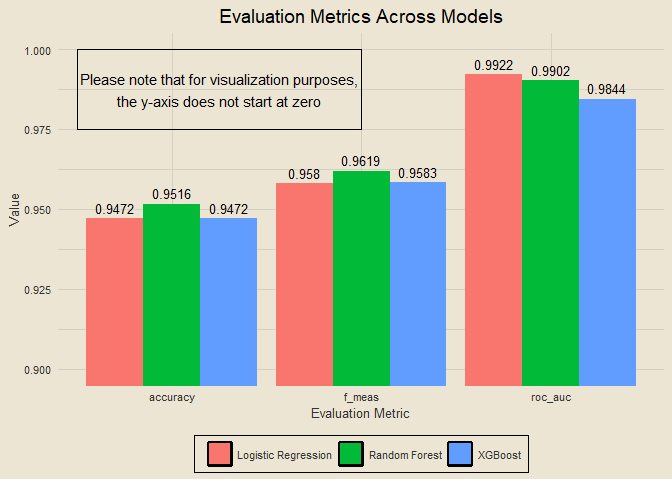
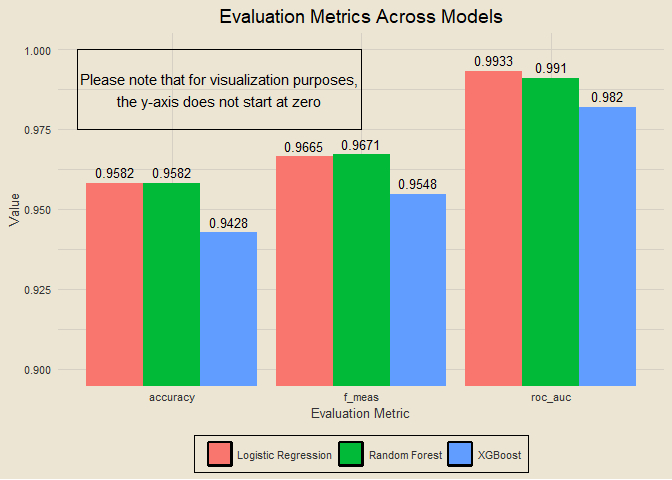
new commit

diff --git a/README.md b/README.md
@@ -935,24 +935,24 @@ pre_rec |>
 </details>
 
     ## # A tibble: 10 × 18
-    ##          id texture_mean area_…¹ smoot…² symme…³ fract…⁴ radiu…⁵ textu…⁶ smoot…⁷
-    ##       <dbl>        <dbl>   <dbl>   <dbl>   <dbl>   <dbl>   <dbl>   <dbl>   <dbl>
-    ##  1   859487       -0.651 -0.433   0.139   -0.808 -0.888  -0.607  -0.623    0.307
-    ##  2   911685       -1.09  -0.710   0.586   -0.119  0.417  -0.728  -0.0922  -0.694
-    ##  3   906616       -0.760 -0.701   0.884    0.271  0.0570 -0.575  -0.875   -0.385
-    ##  4 85922302        1.06  -0.443   1.13     0.341  0.439   0.0733 -0.0704   0.246
-    ##  5  8811523       -0.218 -0.633  -0.194    0.567  0.0485 -0.393   0.627    0.610
-    ##  6   923465        1.14  -0.833  -1.03     0.600  0.0683  0.413   1.27     0.407
-    ##  7   914333        0.214  0.0739 -0.0349  -1.18  -0.753  -0.623   0.760   -0.542
-    ##  8   924934        1.93  -0.948  -0.431   -0.797 -0.216  -0.668   1.85     1.67 
-    ##  9   915940       -1.31   0.0111  0.139   -0.265 -0.906   0.0408 -1.08    -0.695
-    ## 10   872608       -0.286 -1.00    0.0448  -0.520  2.60    0.0935  1.89     1.94 
+    ##           id texture_…¹ area_…² smoot…³ symme…⁴ fract…⁵ radius…⁶ textu…⁷ smoot…⁸
+    ##        <dbl>      <dbl>   <dbl>   <dbl>   <dbl>   <dbl>    <dbl>   <dbl>   <dbl>
+    ##  1   8712289     0.639   2.93    -0.851 -0.0387  -1.03   0.934    -0.654  -0.710
+    ##  2    907409    -1.00   -0.913    0.128  0.414    0.900 -0.280    -0.163   0.108
+    ##  3 871001502     0.328  -1.28    -0.164  1.50     2.81  -0.763     1.35    1.79 
+    ##  4    859465    -0.0580 -0.741   -1.06  -1.08    -0.868 -0.478    -0.497   0.746
+    ##  5    861853    -1.05   -0.293   -1.62  -1.55    -1.36   0.00190  -0.116  -0.853
+    ##  6    861799     0.807   0.208   -0.310 -0.345   -0.259 -0.333    -0.681   0.946
+    ##  7  84799002     1.92    0.0111   1.25   1.79     1.13  -0.127    -0.333  -0.478
+    ##  8    859711    -1.08   -1.17     0.105  0.330    3.82   0.436    -0.661   3.39 
+    ##  9    879523    -0.607   0.175   -0.540 -0.794   -0.416 -0.483    -1.55   -0.523
+    ## 10    855563     0.479  -0.806    1.87   0.304    0.836 -0.608     0.383   0.341
     ## # … with 9 more variables: compactness_se <dbl>, concave_points_se <dbl>,
     ## #   symmetry_se <dbl>, fractal_dimension_se <dbl>, smoothness_worst <dbl>,
     ## #   compactness_worst <dbl>, symmetry_worst <dbl>,
     ## #   fractal_dimension_worst <dbl>, diagnosis <fct>, and abbreviated variable
-    ## #   names ¹area_mean, ²smoothness_mean, ³symmetry_mean,
-    ## #   ⁴fractal_dimension_mean, ⁵radius_se, ⁶texture_se, ⁷smoothness_se
+    ## #   names ¹texture_mean, ²area_mean, ³smoothness_mean, ⁴symmetry_mean,
+    ## #   ⁵fractal_dimension_mean, ⁶radius_se, ⁷texture_se, ⁸smoothness_se
 
 ### Building Cross Validation Folds
 
@@ -1038,9 +1038,9 @@ log_res |>
     ## # A tibble: 3 × 3
     ##   .metric   mean std_err
     ##   <chr>    <dbl>   <dbl>
-    ## 1 accuracy 0.947 0.00406
-    ## 2 f_meas   0.958 0.00327
-    ## 3 roc_auc  0.992 0.00220
+    ## 1 accuracy 0.958 0.00638
+    ## 2 f_meas   0.967 0.00542
+    ## 3 roc_auc  0.993 0.00200
 
 ### Building Random Forest Specification and Workflow
 
@@ -1105,9 +1105,9 @@ rf_res |>
     ## # A tibble: 3 × 3
     ##   .metric   mean std_err
     ##   <chr>    <dbl>   <dbl>
-    ## 1 accuracy 0.952 0.00433
-    ## 2 f_meas   0.962 0.00354
-    ## 3 roc_auc  0.990 0.00377
+    ## 1 accuracy 0.958 0.00806
+    ## 2 f_meas   0.967 0.00628
+    ## 3 roc_auc  0.991 0.00207
 
 ### Building XGBoost Specification and Workflow
 
@@ -1169,9 +1169,9 @@ xgb_res |>
     ## # A tibble: 3 × 3
     ##   .metric   mean std_err
     ##   <chr>    <dbl>   <dbl>
-    ## 1 accuracy 0.947 0.00406
-    ## 2 f_meas   0.958 0.00317
-    ## 3 roc_auc  0.984 0.00538
+    ## 1 accuracy 0.943 0.00804
+    ## 2 f_meas   0.955 0.00609
+    ## 3 roc_auc  0.982 0.00465
 
 ### Comparing Model Results
 
@@ -1208,11 +1208,6 @@ log_res |>
 
 ![](README_files/figure-gfm/unnamed-chunk-50-1.png)<!-- -->
 
-For these three metrics, model performance is roughly the same, with the
-only apparent different being the area under the ROC curve for the
-random forest model. I will do some hyperparameter tuning on the random
-forest and XGBoost models to see how that affects performance.
-
 *to be continued :)*
 
 ### Script Runtime
@@ -1221,4 +1216,4 @@ forest and XGBoost models to see how that affects performance.
 tictoc::toc()
 ```
 
-    ## 27.11 sec elapsed
+    ## 23.8 sec elapsed
